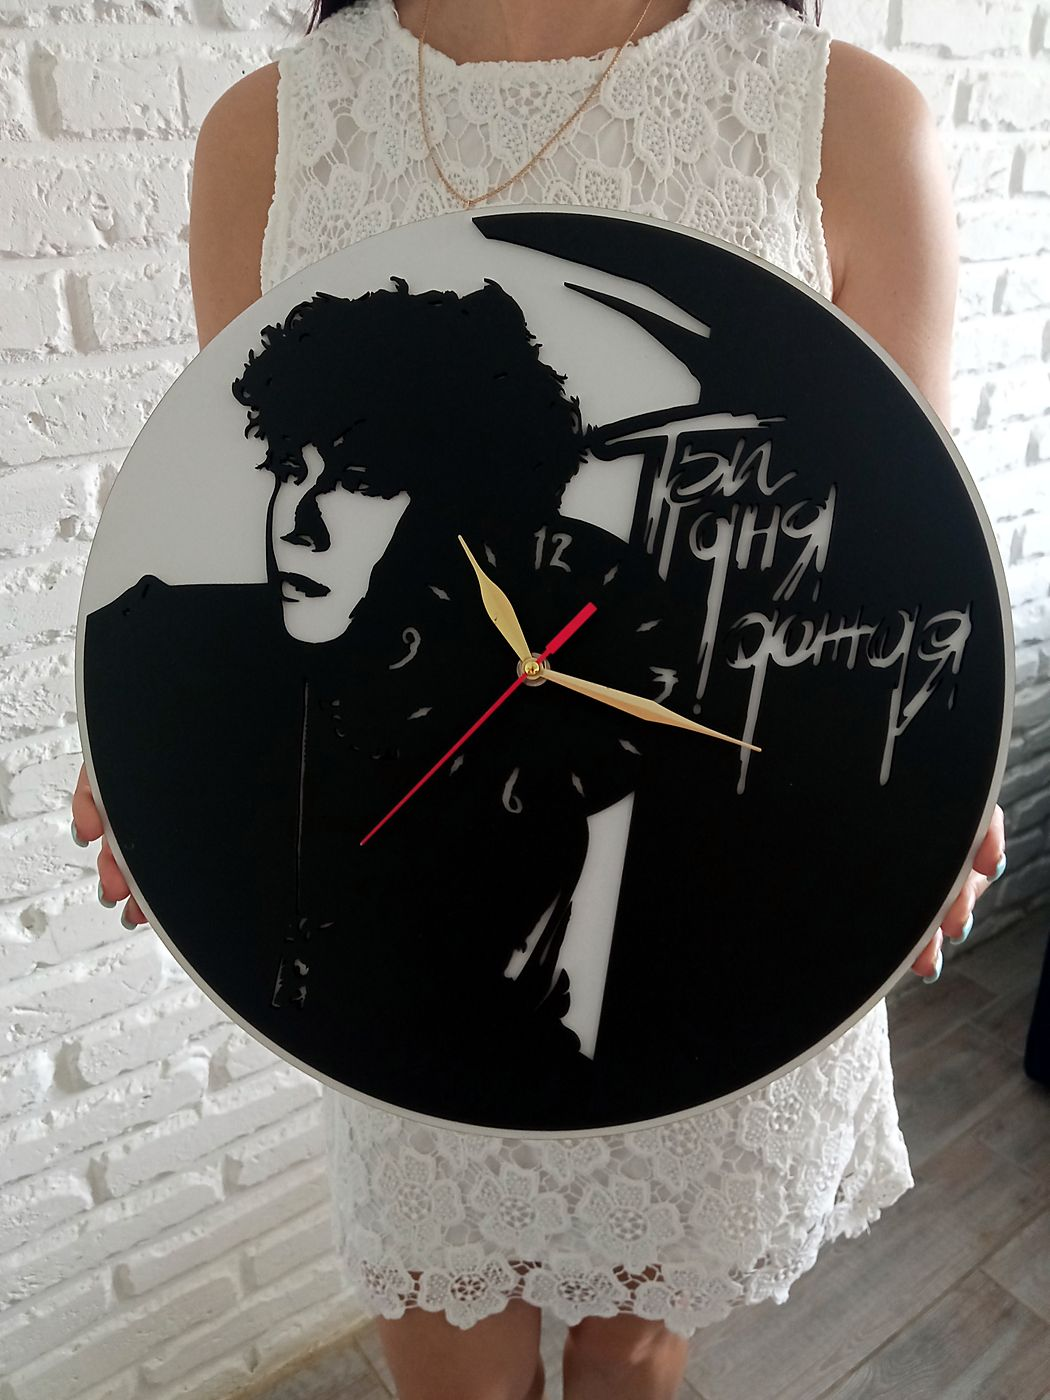
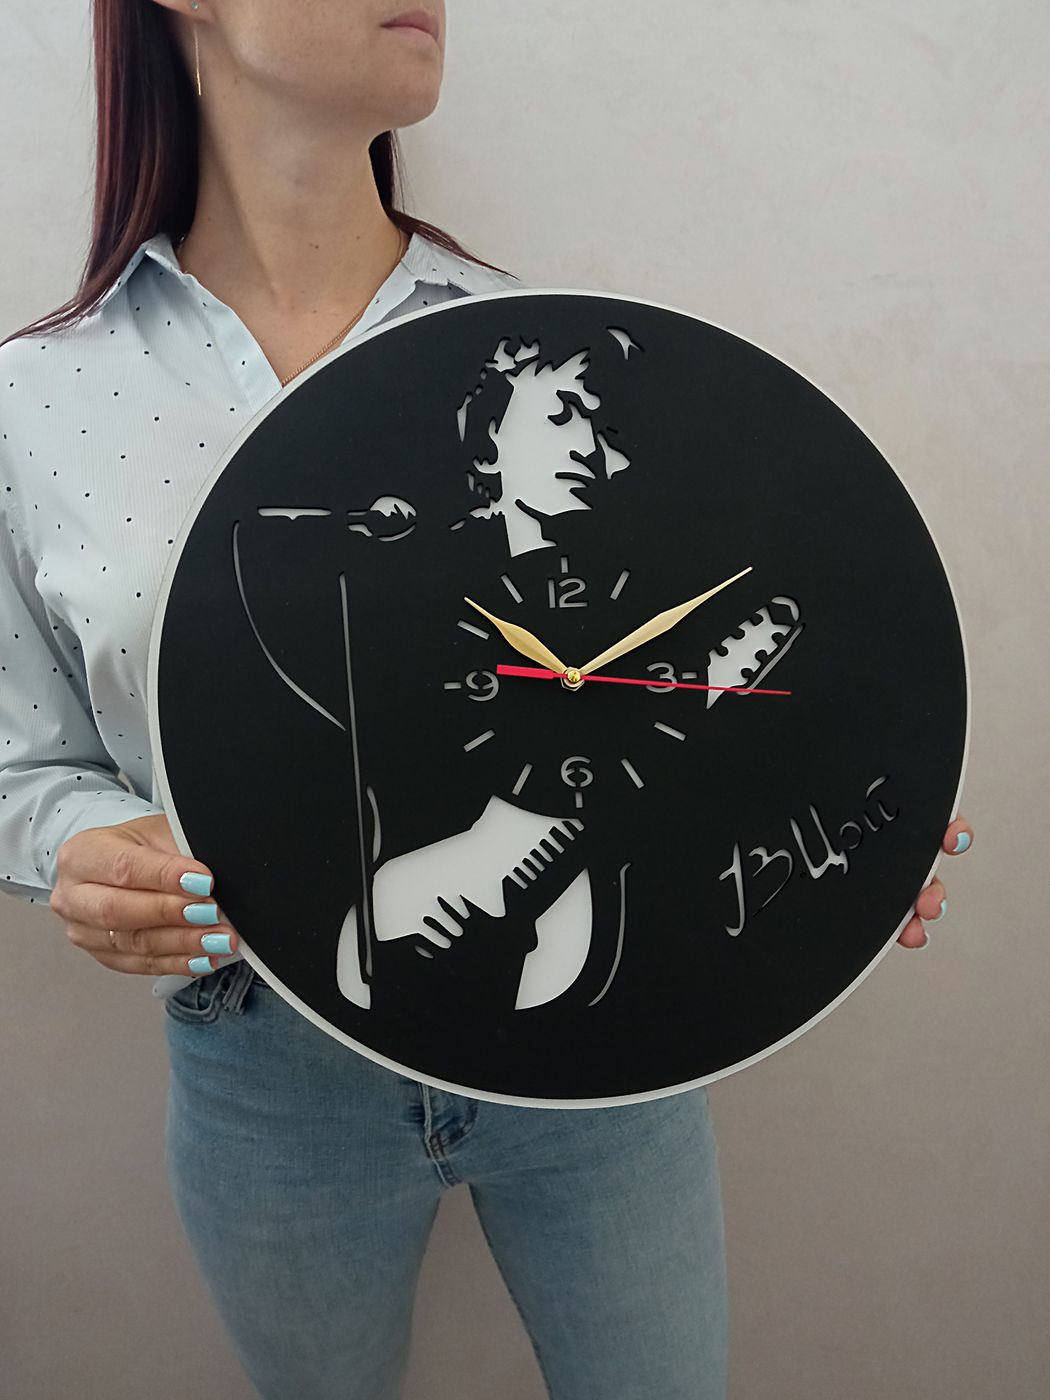
Часы Цоя: на фото была другая группа
На всех трёх кадрах поста стояли часы «Три дня дождя» — так называется
группа фотоархива «Часы Виктор Цой Группа крови», и название оказалось
неверным. Проверено глазами: под тем же именем лежит чужое изделие,
а «Часы Кино Виктор Цой» — это на самом деле коллаж «Легенды русского рока».

Фото заменены на настоящие часы с Цоем (группа «с гитарой»): чёрный слой
прорезан насквозь, внизу росчерк «В. Цой». Текст статьи, ВК и Телеграма
подогнан под то, что на снимках: вместо надписи «Группа крови» — автограф,
вместо вариантов «Кино»/«Цой жив» — реально существующий вариант из винила.

diff --git a/src/blog.js b/src/blog.js
@@ -779,11 +779,11 @@ export const POSTS = [
     date: '2026-09-05',
     title: 'Часы «Виктор Цой» из дерева, портрет на циферблате — Лазер Клин',
     h1: 'Часы с Цоем: портрет, который работает вместо циферблата',
-    description: 'Настенные часы с портретом Виктора Цоя: силуэт вырезан насквозь, надпись «Группа крови» рваным шрифтом. Механизм плавного хода. Есть варианты «Кино» и «Цой жив». Клин.',
+    description: 'Настенные часы с Виктором Цоем: фигура у микрофона с гитарой вырезана насквозь, внизу автограф. Механизм плавного хода. Есть вариант «Цой жив» из виниловой пластинки. Клин.',
     alts: [
-      'Настенные часы с портретом Виктора Цоя в руках на фоне белой кирпичной стены',
-      'Часы «Виктор Цой» целиком: чёрное поле, белый силуэт, надпись «Группа крови»',
-      'Часы «Виктор Цой» на светлом фоне, видны золотые стрелки и красная секундная',
+      'Настенные часы «Виктор Цой» в руках на фоне светлой стены: фигура у микрофона с гитарой',
+      'Часы «Виктор Цой» в комнате: чёрное поле, белая фигура и автограф в нижнем углу',
+      'Часы «Виктор Цой» крупным планом: золотые стрелки, красная секундная, цифры 12, 3, 6, 9',
     ],
     services: ['chasy-na-zakaz', 'chasy-iz-vinila'],
     body: `
@@ -791,16 +791,16 @@ export const POSTS = [
   <p>Здесь работа есть: портрет показывает время.</p>
 
   <h2>Как сделан портрет</h2>
-  <p>Лицо и фигура набраны контрастными пятнами: чёрное поле, светлые провалы. Ни одной линии, ни одного полутона — только граница света и тени. Это тот же приём, что в трафаретной печати, и работает он по той же причине: мозг достраивает лицо по нескольким пятнам быстрее, чем считывает подробный рисунок.</p>
+  <p>На циферблате не голова в кружочке, а целая сцена: Цой стоит у микрофонной стойки с гитарой. Фигура набрана контрастными пятнами — чёрное поле, светлые провалы. Ни одной линии, ни одного полутона, только граница света и тени. Это тот же приём, что в трафаретной печати, и работает он по той же причине: мозг достраивает лицо по нескольким пятнам быстрее, чем считывает подробный рисунок.</p>
   <p>Проверить просто — отойдите на пять шагов. Портрет соберётся, а подробная гравировка на таком расстоянии превратилась бы в грязь.</p>
-  <p>Светлые участки — не краска, а нижний слой. Верхний чёрный прорезан насквозь, и в прорезях виден второй слой, который лежит под ним. Отсюда небольшая, но настоящая глубина: у скулы и у воротника есть тень, которой не бывает у печати.</p>
+  <p>Светлые участки — не краска, а нижний слой. Верхний чёрный прорезан насквозь, и в прорезях виден второй слой, который лежит под ним. Отсюда небольшая, но настоящая глубина: у скулы, у грифа и у корпуса гитары есть тень, которой не бывает у печати.</p>
 
-  <h2>Надпись</h2>
-  <p>Справа — «Группа крови», набранная рваным шрифтом, будто написанной наспех кистью. Буквы намеренно неровные, с потёками вниз: аккуратный шрифт рядом с этим портретом выглядел бы как подпись под школьным стендом.</p>
-  <p>В серии есть и другие: «Кино» и «Цой жив». Циферблат тот же, меняется только надпись.</p>
+  <h2>Автограф</h2>
+  <p>В правом нижнем углу — росчерк «В. Цой». Он вырезан тем же прорезом, что и фигура, поэтому не выглядит наклейкой поверх: буквы такие же светлые и с такой же тенью в прорези. Печатный шрифт рядом с этой сценой смотрелся бы как подпись под школьным стендом, а рукописный ставит вещь на своё место.</p>
+  <p>Есть и второй вариант — часы «Цой жив», вырезанные из настоящей виниловой пластинки: профиль сбоку, надпись слева, посередине маленький циферблат.</p>
 
   <h2>Цифры и стрелки</h2>
-  <p>Цифры мелкие, всего четыре — 12, 3, 6, 9. Больше и не нужно: часы читаются по положению стрелок, а не по цифрам, и всё лишнее здесь спорило бы с портретом.</p>
+  <p>Цифр всего четыре — 12, 3, 6, 9, между ними короткие штрихи. Больше и не нужно: часы читаются по положению стрелок, а не по цифрам, и всё лишнее здесь спорило бы с фигурой.</p>
   <p>Стрелки золотистые, секундная красная. Красная стрелка — единственное цветное пятно на всей вещи, и именно она не даёт часам стать просто картинкой: глаз цепляется за движение.</p>
 
   <h2>Механизм</h2>
@@ -816,20 +816,20 @@ export const POSTS = [
 
 Портрет на стене или висит по делу, или превращается в плакат из общежития. Разница в том, есть ли у него работа помимо того, чтобы на него смотрели. Здесь работа есть — он показывает время.
 
-Лицо набрано контрастными пятнами, без единой линии и полутона: только граница света и тени. Отойдите на пять шагов — портрет соберётся, а подробная гравировка на таком расстоянии стала бы грязью.
+На циферблате целая сцена: Цой у микрофонной стойки с гитарой. Фигура набрана контрастными пятнами, без единой линии и полутона. Отойдите на пять шагов — портрет соберётся, а подробная гравировка на таком расстоянии стала бы грязью.
 
-Светлые участки не краска, а нижний слой: верхнее чёрное поле прорезано насквозь. Отсюда настоящая тень у скулы и воротника.
+Светлые участки не краска, а нижний слой: верхнее чёрное поле прорезано насквозь. Отсюда настоящая тень у скулы и у гитары.
 
-Надпись «Группа крови» рваным шрифтом, с потёками. В серии есть «Кино» и «Цой жив».
+В нижнем углу росчерк «В. Цой» — вырезан тем же прорезом, а не наклеен сверху.
 
 Механизм плавного хода, часы не тикают. Портрет сделаем и по вашей фотографии.
 
 Клин, +7 926 664-21-21.`,
     vk: `Новые часы с портретом Цоя.
 
-Лицо набрано контрастными пятнами — ни одной линии, ни одного полутона, только граница света и тени. Отойдите на пять шагов, и портрет соберётся: подробная гравировка на таком расстоянии стала бы грязью.
+На циферблате целая сцена: Цой у микрофонной стойки с гитарой. Фигура набрана контрастными пятнами — ни одной линии, ни одного полутона, только граница света и тени. Отойдите на пять шагов, и портрет соберётся: подробная гравировка на таком расстоянии стала бы грязью.
 
-Светлые участки — не краска, а нижний слой: верхнее чёрное поле прорезано насквозь, и у скулы с воротником появляется настоящая тень. Надпись «Группа крови» рваным шрифтом. В серии есть ещё «Кино» и «Цой жив».
+Светлые участки — не краска, а нижний слой: верхнее чёрное поле прорезано насквозь, и у скулы с гитарой появляется настоящая тень. В нижнем углу росчерк «В. Цой», вырезанный тем же прорезом. Есть и вариант «Цой жив» из настоящей виниловой пластинки.
 
 Механизм плавного хода, не тикают. Портрет режем и по вашей фотографии.
 
